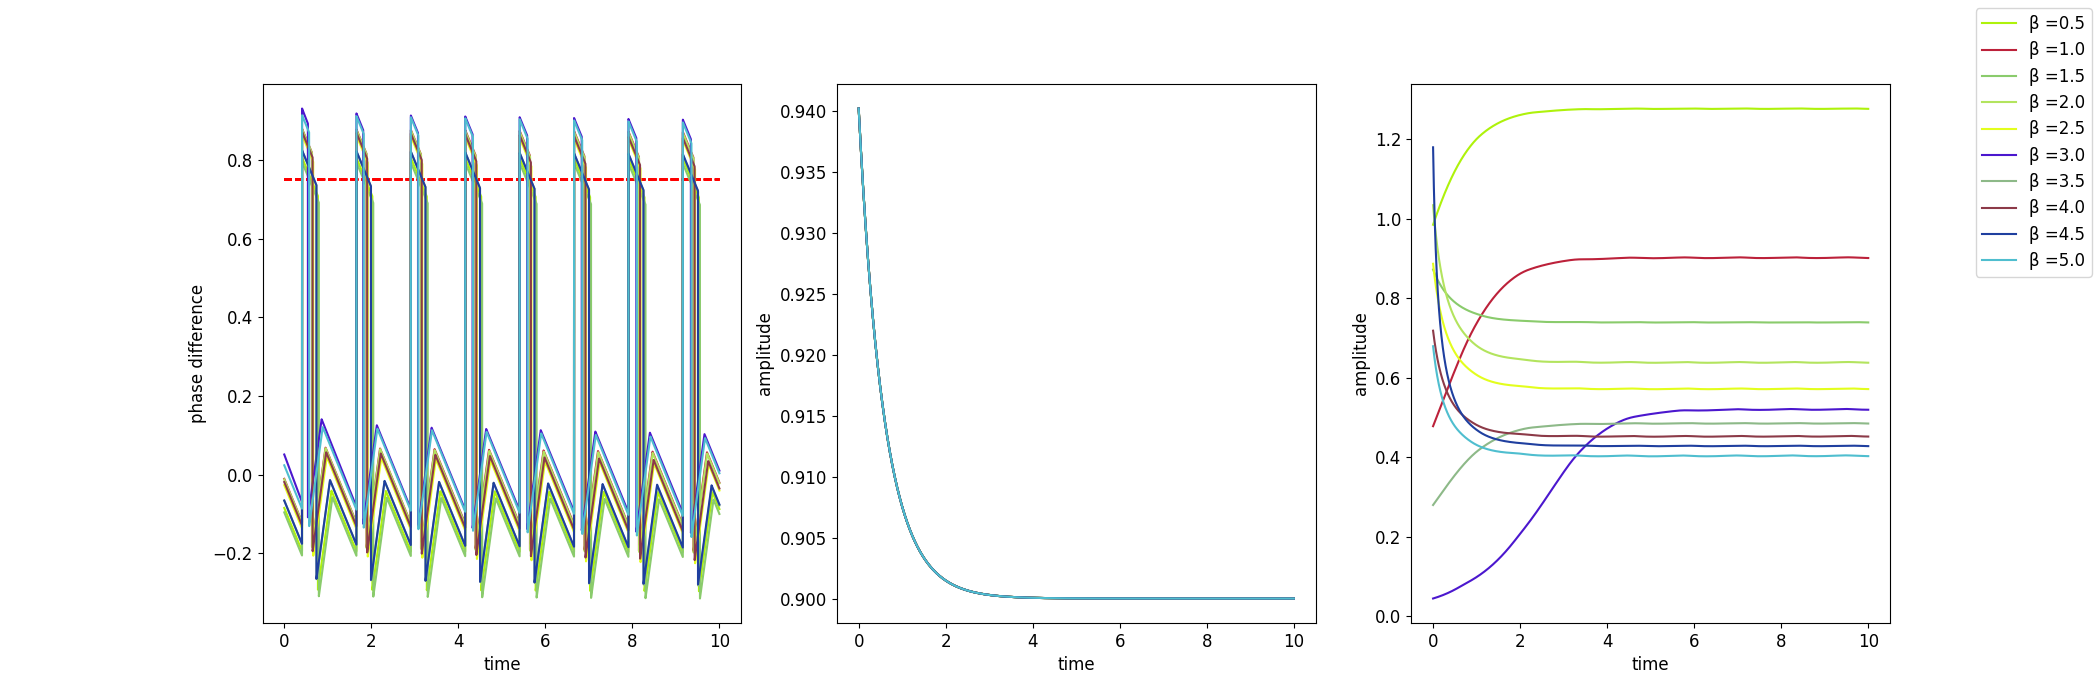
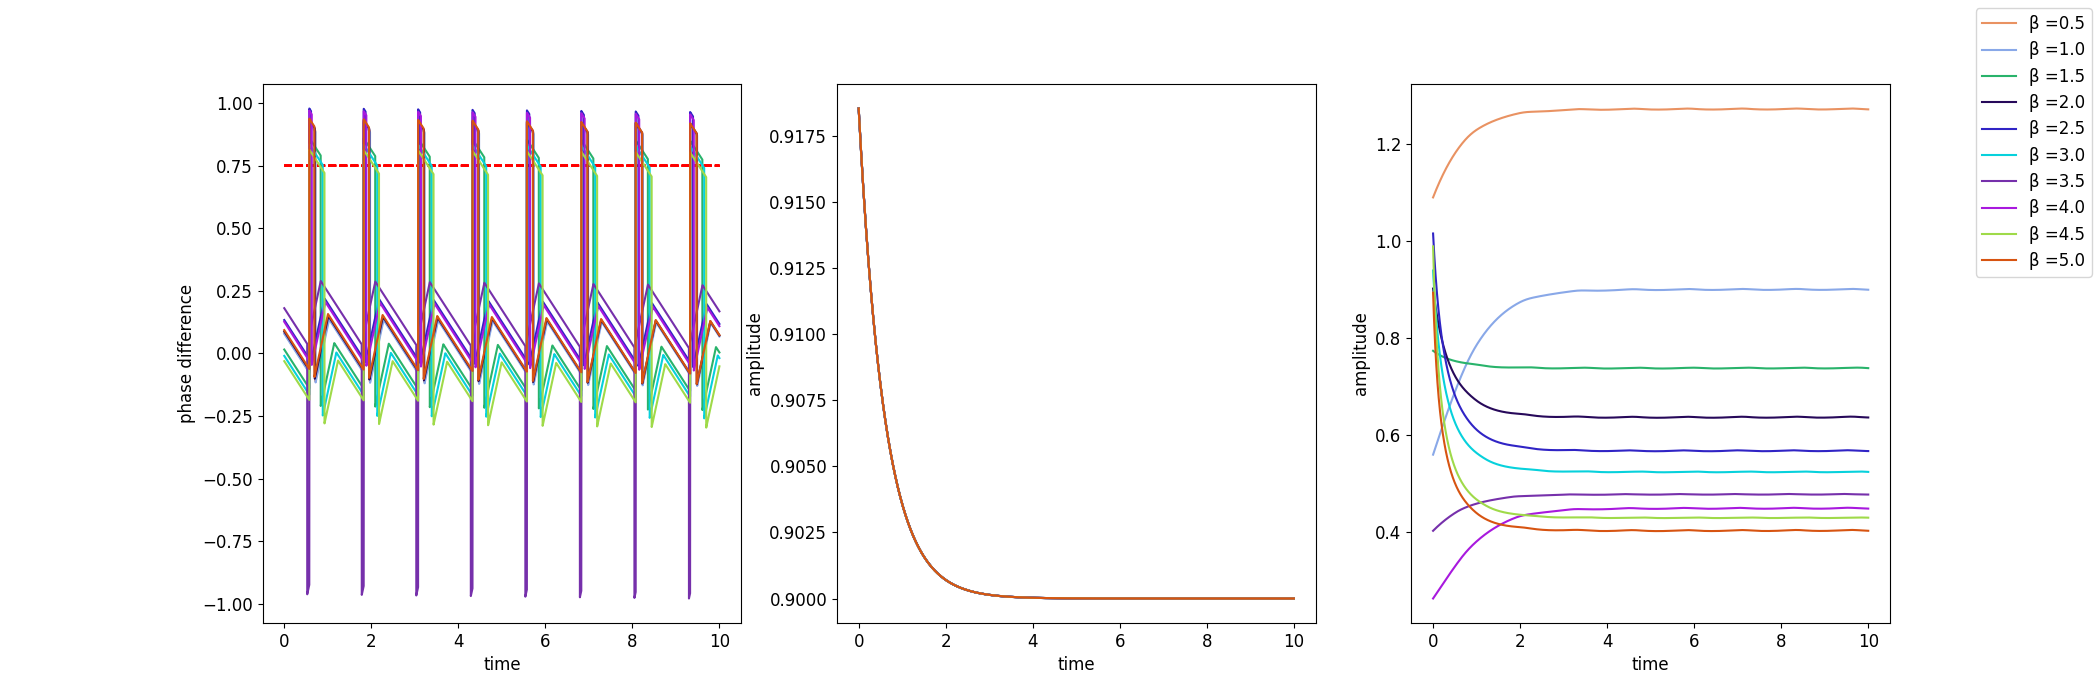
commit sync

diff --git a/oscillator_v2.py b/oscillator_v2.py
@@ -484,7 +484,7 @@ def test_cpg_v2(
         )
         axes[i][3].plot(
             T,
-            np.repeat(np.expand_dims(phase, 0), N, 0)[:, i],
+            np.repeat(np.expand_dims(phase, 0), N, 0)[:, i] / (2 * np.pi),
             '--b',
             label = 'reference'
         )
